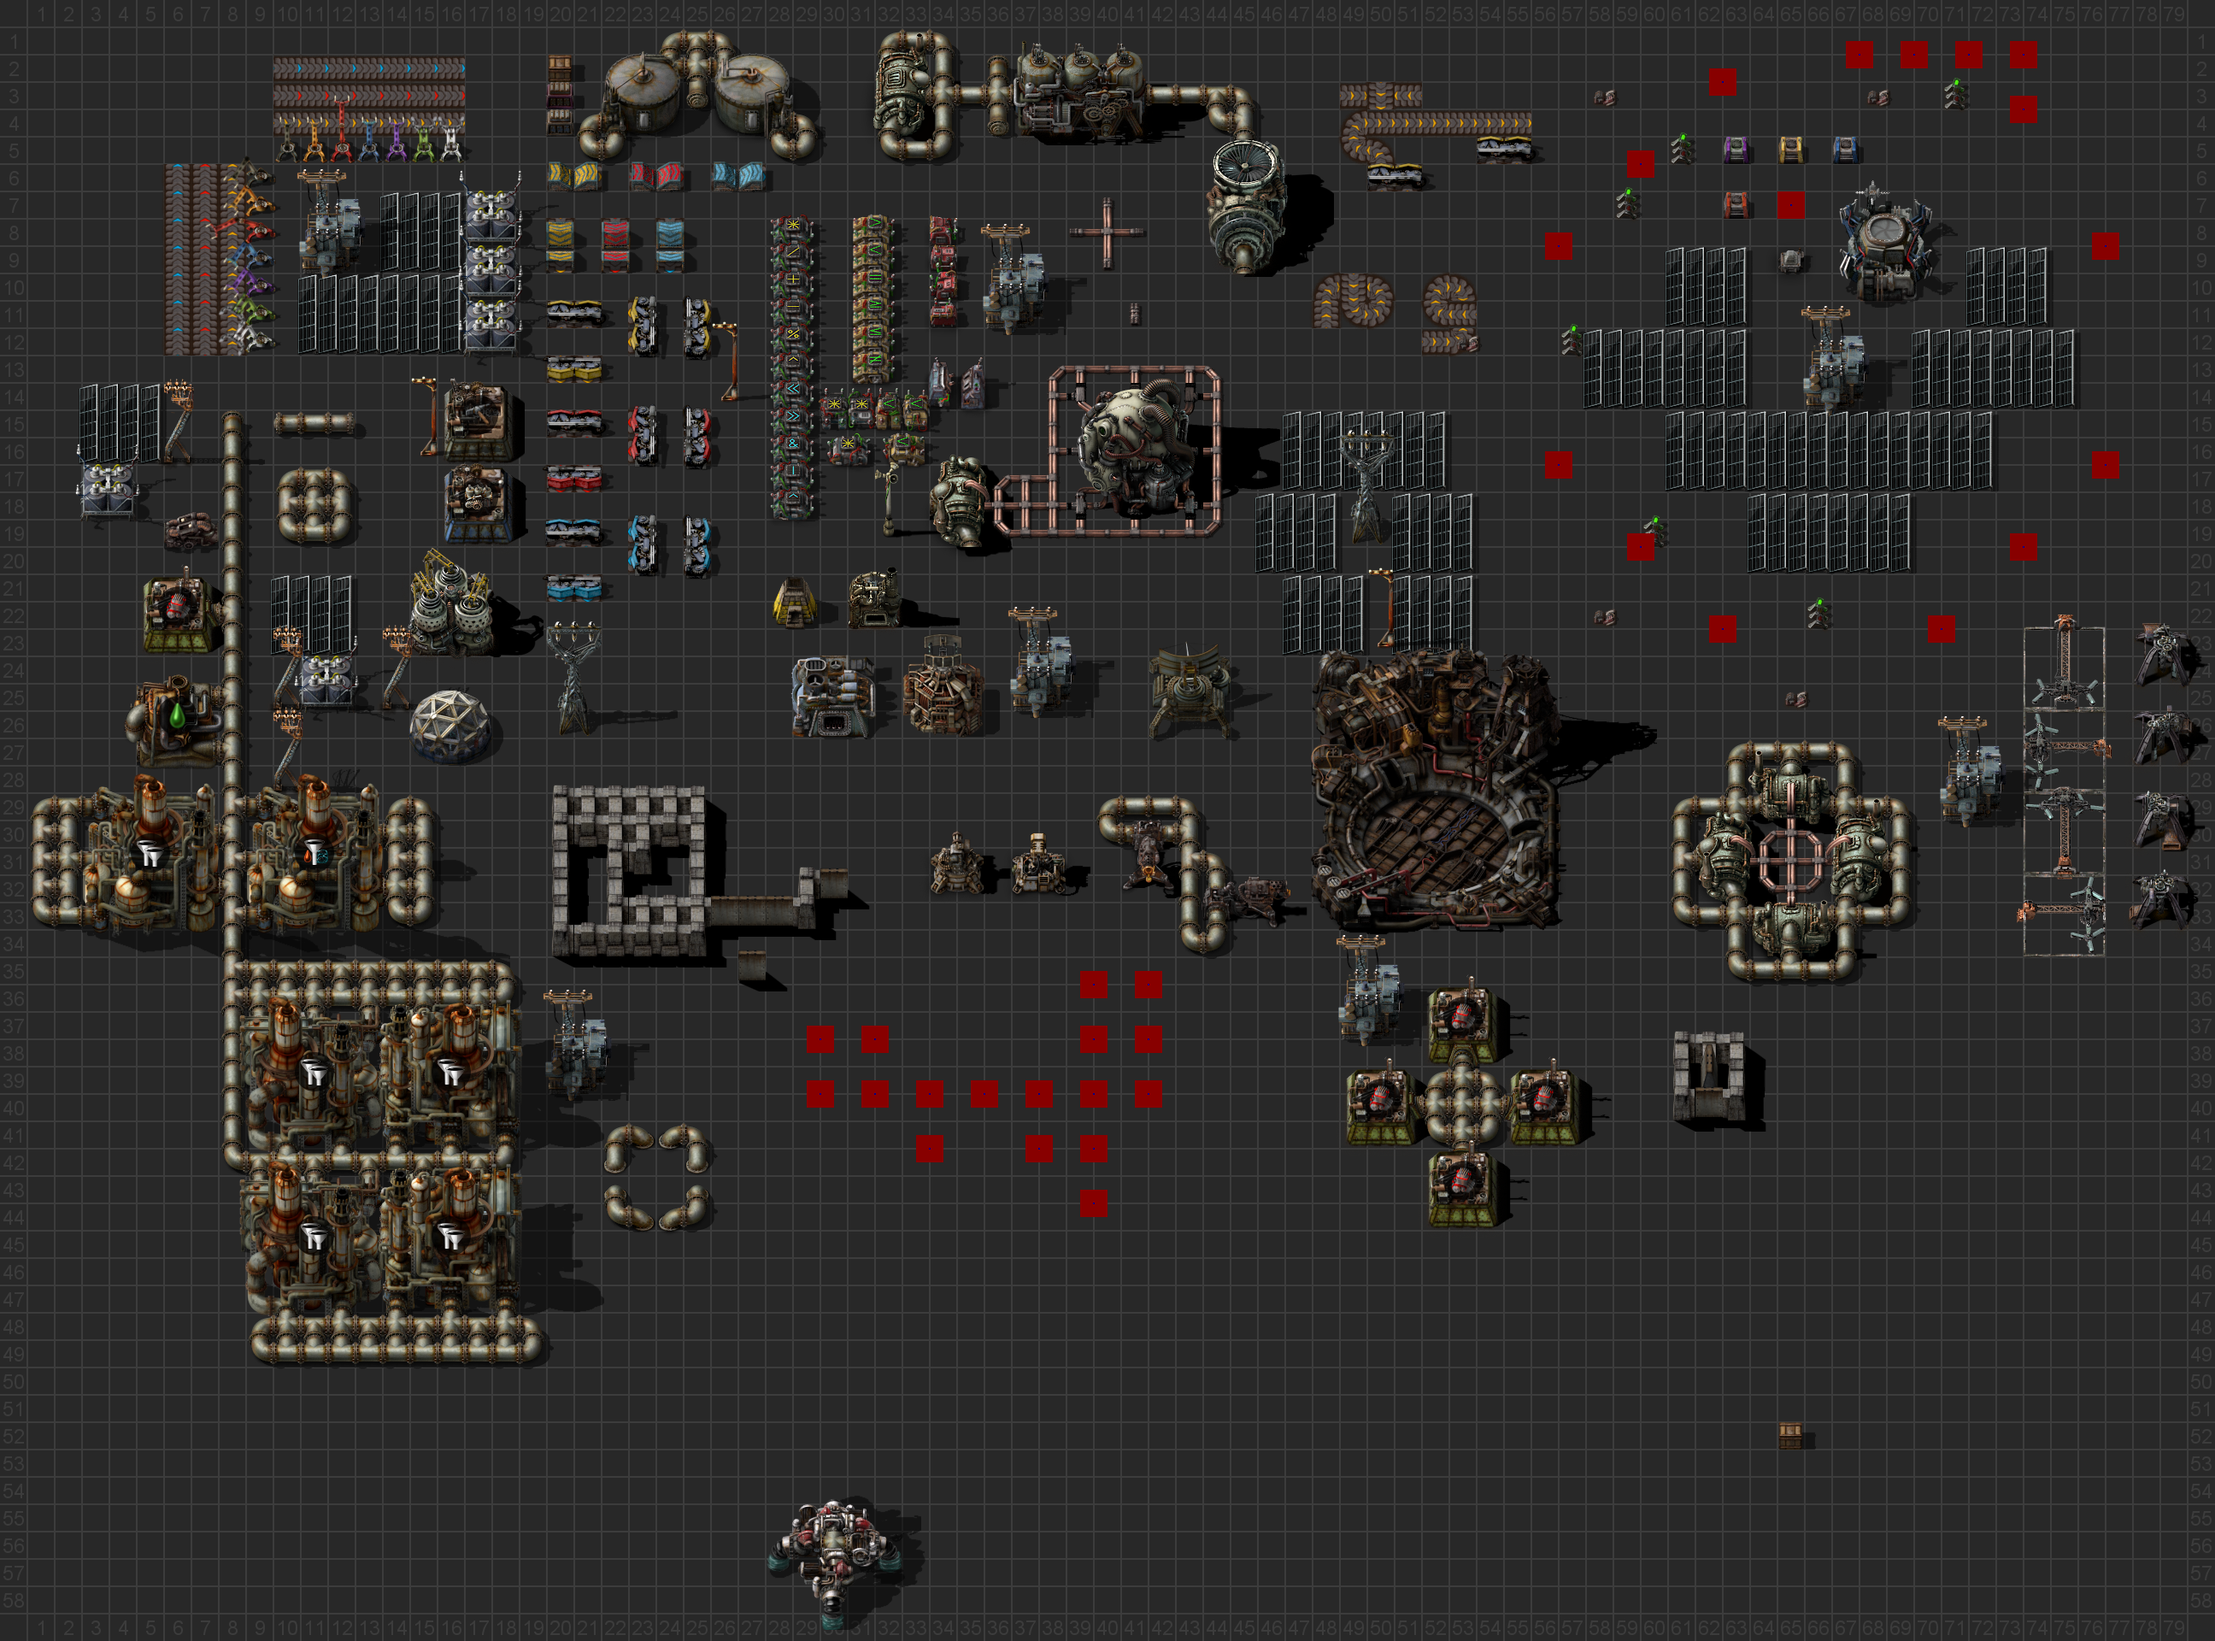
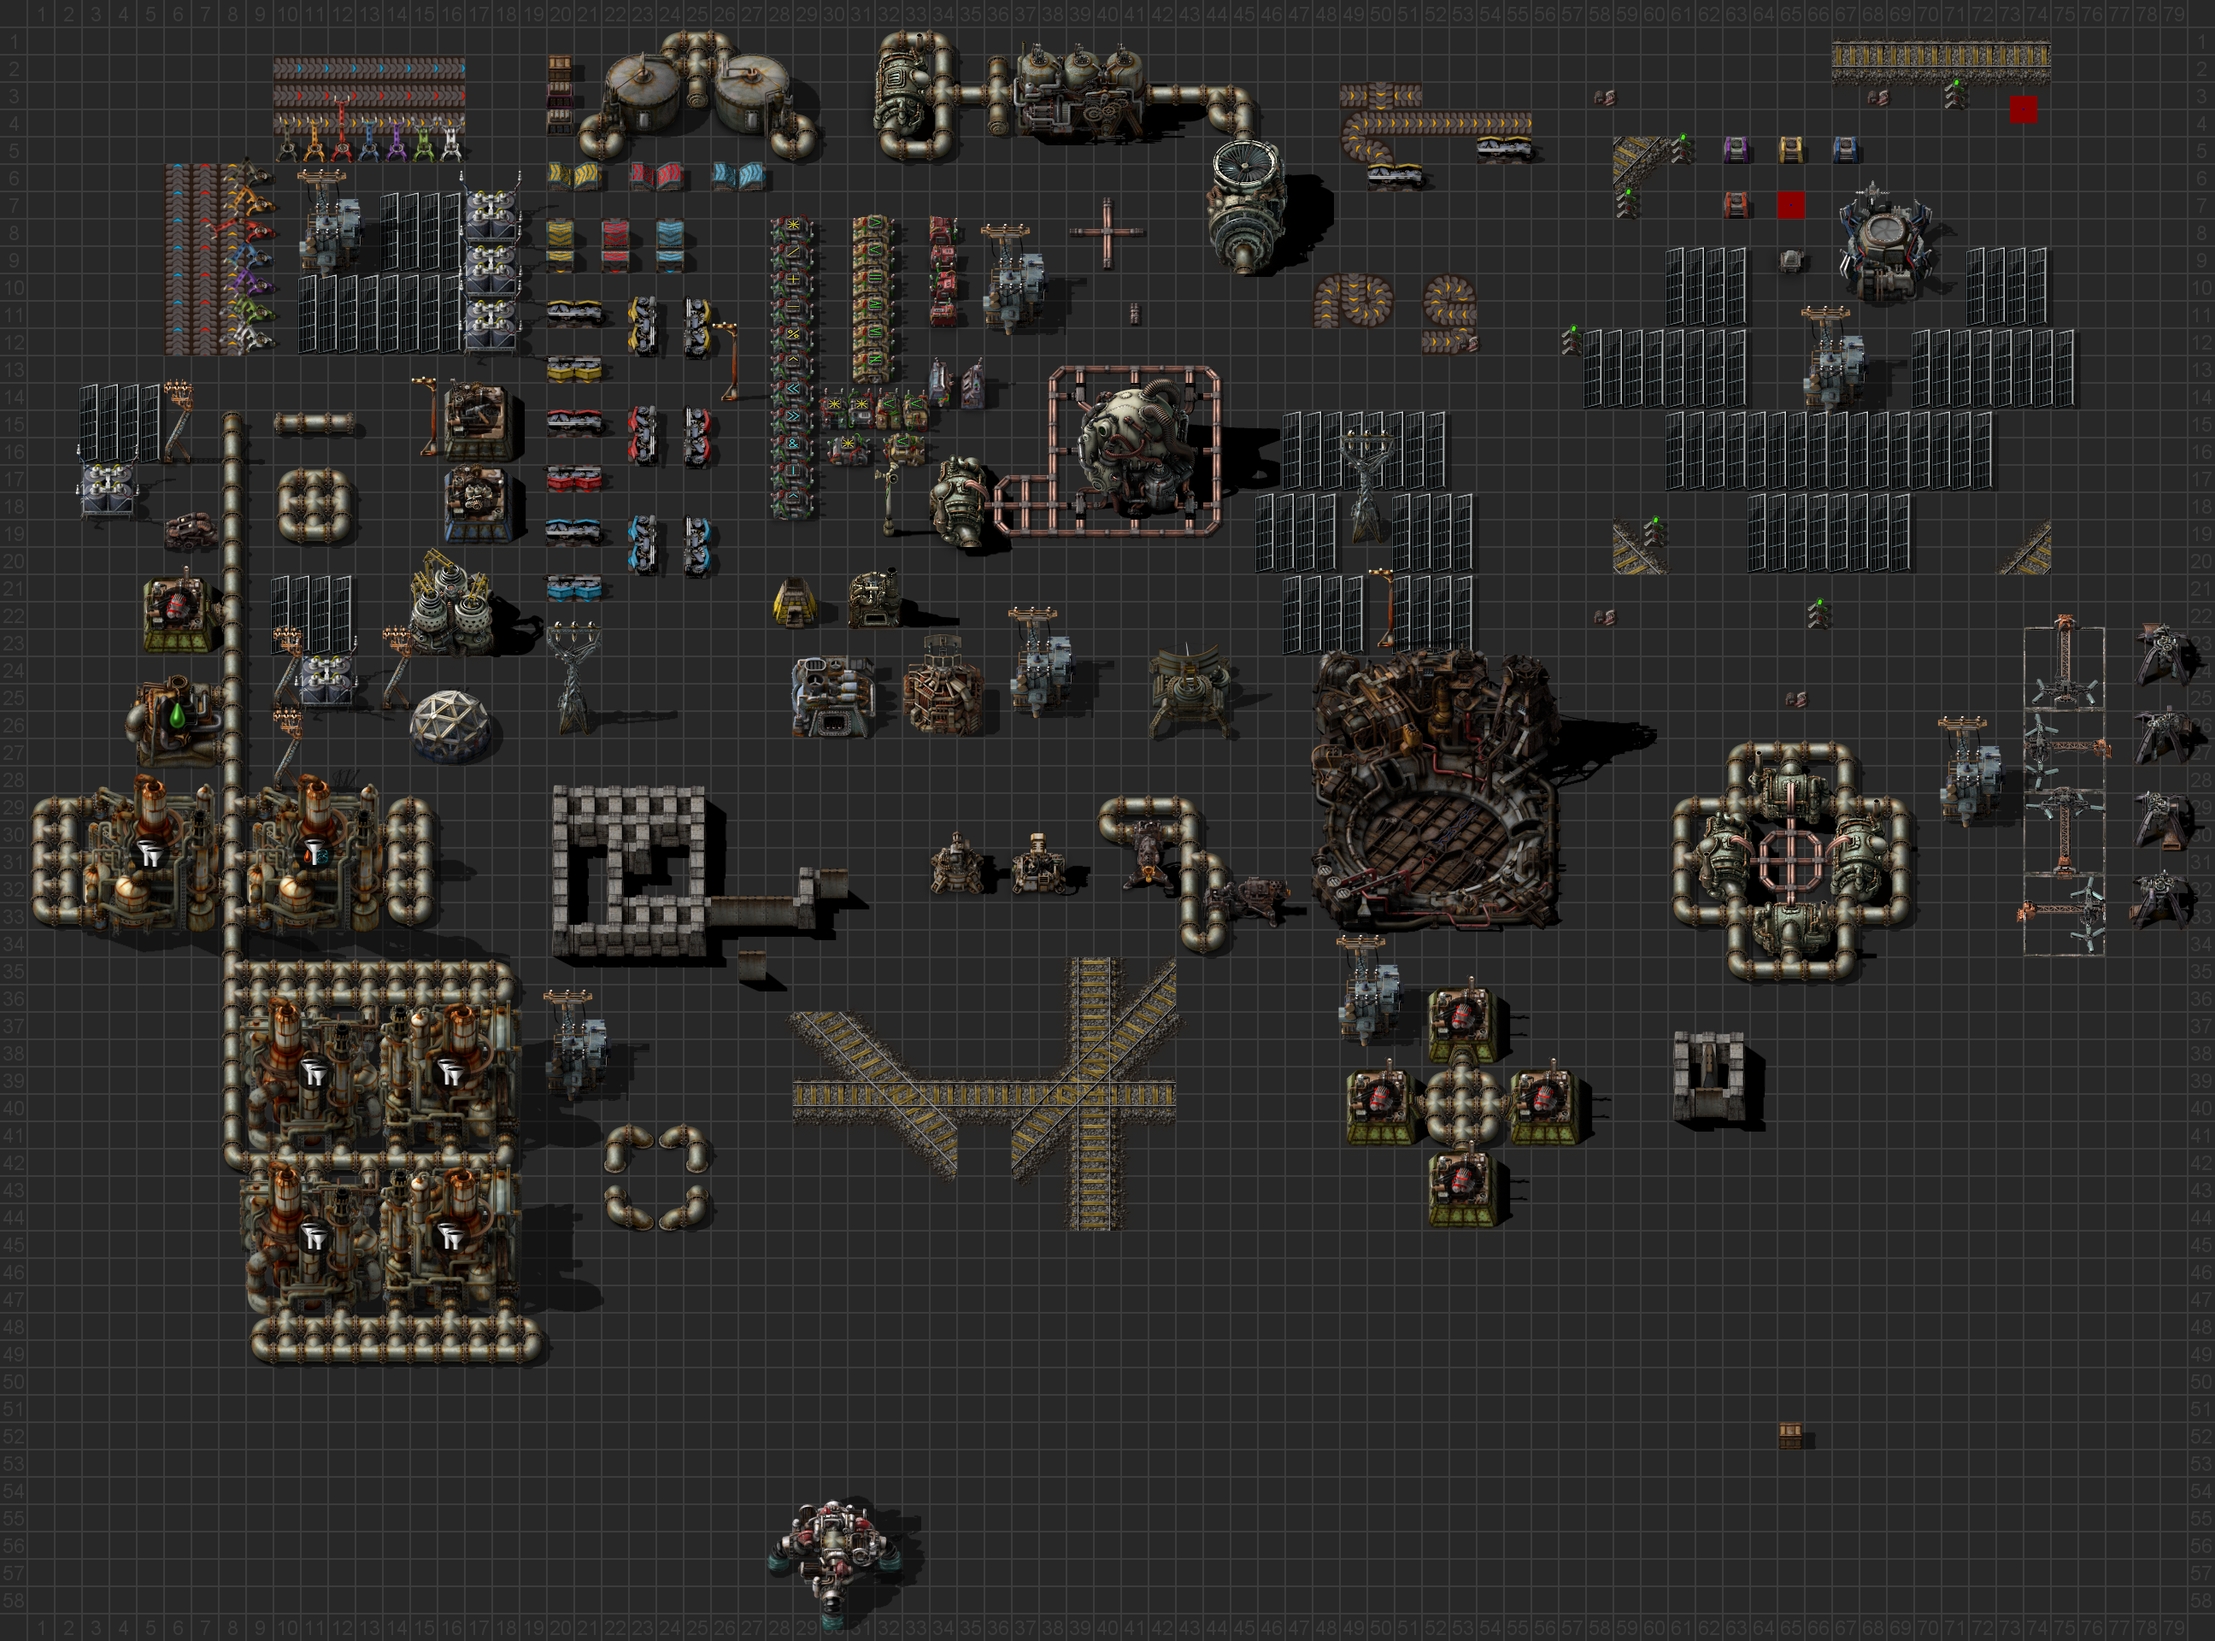
Render straight rails

diff --git a/spritesheet.js b/spritesheet.js
@@ -503,9 +503,47 @@ function pumpjack (entity, data) {
         processPicture(data.animations.north)));
 }
 
+function straightRail (entity, data) {
+    saveCanvas("images/" + entity + "_horizontal_pass_1.png", processPicture(data.pictures.straight_rail_horizontal.stone_path_background.sheet));
+    saveCanvas("images/" + entity + "_horizontal_pass_2.png", processPicture(data.pictures.straight_rail_horizontal.stone_path.sheet));
+    saveCanvas("images/" + entity + "_horizontal_pass_3.png", processPicture(data.pictures.straight_rail_horizontal.ties.sheet));
+    saveCanvas("images/" + entity + "_horizontal_pass_4.png", processPicture(data.pictures.straight_rail_horizontal.backplates.sheet));
+    saveCanvas("images/" + entity + "_horizontal_pass_5.png", processPicture(data.pictures.straight_rail_horizontal.metals.sheet));
+
+    saveCanvas("images/" + entity + "_vertical_pass_1.png", processPicture(data.pictures.straight_rail_vertical.stone_path_background.sheet));
+    saveCanvas("images/" + entity + "_vertical_pass_2.png", processPicture(data.pictures.straight_rail_vertical.stone_path.sheet));
+    saveCanvas("images/" + entity + "_vertical_pass_3.png", processPicture(data.pictures.straight_rail_vertical.ties.sheet));
+    saveCanvas("images/" + entity + "_vertical_pass_4.png", processPicture(data.pictures.straight_rail_vertical.backplates.sheet));
+    saveCanvas("images/" + entity + "_vertical_pass_5.png", processPicture(data.pictures.straight_rail_vertical.metals.sheet));
+
+    saveCanvas("images/" + entity + "_diagonal_left_bottom_pass_1.png", processPicture(data.pictures.straight_rail_diagonal_left_bottom.stone_path_background.sheet));
+    saveCanvas("images/" + entity + "_diagonal_left_bottom_pass_2.png", processPicture(data.pictures.straight_rail_diagonal_left_bottom.stone_path.sheet));
+    saveCanvas("images/" + entity + "_diagonal_left_bottom_pass_3.png", processPicture(data.pictures.straight_rail_diagonal_left_bottom.ties.sheet));
+    saveCanvas("images/" + entity + "_diagonal_left_bottom_pass_4.png", processPicture(data.pictures.straight_rail_diagonal_left_bottom.backplates.sheet));
+    saveCanvas("images/" + entity + "_diagonal_left_bottom_pass_5.png", processPicture(data.pictures.straight_rail_diagonal_left_bottom.metals.sheet));
+
+    saveCanvas("images/" + entity + "_diagonal_right_bottom_pass_1.png", processPicture(data.pictures.straight_rail_diagonal_right_bottom.stone_path_background.sheet));
+    saveCanvas("images/" + entity + "_diagonal_right_bottom_pass_2.png", processPicture(data.pictures.straight_rail_diagonal_right_bottom.stone_path.sheet));
+    saveCanvas("images/" + entity + "_diagonal_right_bottom_pass_3.png", processPicture(data.pictures.straight_rail_diagonal_right_bottom.ties.sheet));
+    saveCanvas("images/" + entity + "_diagonal_right_bottom_pass_4.png", processPicture(data.pictures.straight_rail_diagonal_right_bottom.backplates.sheet));
+    saveCanvas("images/" + entity + "_diagonal_right_bottom_pass_5.png", processPicture(data.pictures.straight_rail_diagonal_right_bottom.metals.sheet));
+
+    saveCanvas("images/" + entity + "_diagonal_left_top_pass_1.png", processPicture(data.pictures.straight_rail_diagonal_left_top.stone_path_background.sheet));
+    saveCanvas("images/" + entity + "_diagonal_left_top_pass_2.png", processPicture(data.pictures.straight_rail_diagonal_left_top.stone_path.sheet));
+    saveCanvas("images/" + entity + "_diagonal_left_top_pass_3.png", processPicture(data.pictures.straight_rail_diagonal_left_top.ties.sheet));
+    saveCanvas("images/" + entity + "_diagonal_left_top_pass_4.png", processPicture(data.pictures.straight_rail_diagonal_left_top.backplates.sheet));
+    saveCanvas("images/" + entity + "_diagonal_left_top_pass_5.png", processPicture(data.pictures.straight_rail_diagonal_left_top.metals.sheet));
+
+    saveCanvas("images/" + entity + "_diagonal_right_top_pass_1.png", processPicture(data.pictures.straight_rail_diagonal_right_top.stone_path_background.sheet));
+    saveCanvas("images/" + entity + "_diagonal_right_top_pass_2.png", processPicture(data.pictures.straight_rail_diagonal_right_top.stone_path.sheet));
+    saveCanvas("images/" + entity + "_diagonal_right_top_pass_3.png", processPicture(data.pictures.straight_rail_diagonal_right_top.ties.sheet));
+    saveCanvas("images/" + entity + "_diagonal_right_top_pass_4.png", processPicture(data.pictures.straight_rail_diagonal_right_top.backplates.sheet));
+    saveCanvas("images/" + entity + "_diagonal_right_top_pass_5.png", processPicture(data.pictures.straight_rail_diagonal_right_top.metals.sheet));
+}
+
 const special = {
     "curved-rail": noop,
-    "straight-rail": noop,
+    "straight-rail": straightRail,
     "beacon": beacon,
     "centrifuge": centrifuge,
     "pumpjack": pumpjack,

diff --git a/factorio.js b/factorio.js
@@ -192,9 +192,52 @@ class Blueprint {
             }
         }
 
-        // Second pass: entities
+        // Second pass: rails
+        for (let pass = 1; pass <= 5; pass++) {
+            for (let i = 0; i < this.entities.length; i++) {
+                const entity = this.entities[i];
+
+                if (entity.name !== "straight-rail" && entity.name !== "curved-rail") {
+                    continue
+                }
+
+                const position = entity['position'];
+                const relativeX = position.x + Math.abs(size.minX) + 0.5;
+                const relativeY = position.y + Math.abs(size.minY) + 0.5;
+
+                const direction = entity.direction || 0;
+                let image;
+
+                if (direction === 0 || direction === 4) {
+                    image = imageResolver(entity.name + "_vertical_pass_" + pass, false);
+                } else if (direction === 2 || direction === 6) {
+                    image = imageResolver(entity.name + "_horizontal_pass_" + pass, false);
+                } else if (direction === 1) {
+                    image = imageResolver(entity.name + "_diagonal_right_top_pass_" + pass, false);
+                } else if (direction === 5) {
+                    image = imageResolver(entity.name + "_diagonal_left_bottom_pass_" + pass, false);
+                } else if (direction === 3) {
+                    image = imageResolver(entity.name + "_diagonal_right_bottom_pass_" + pass, false);
+                } else if (direction === 7) {
+                    image = imageResolver(entity.name + "_diagonal_left_top_pass_" + pass, false);
+                }
+
+                if (image) {
+                    const startX = Math.floor((relativeX * scaling + (scaling / 2)) - (image.width / 2));
+                    const startY = Math.floor((relativeY * scaling + (scaling / 2)) - (image.height / 2));
+                    ctx.drawImage(image, startX, startY, image.width, image.height)
+                }
+            }
+        }
+
+        // Third pass: entities
         for (let i = 0; i < this.entities.length; i++) {
             const entity = this.entities[i];
+
+            if (entity.name === "straight-rail" || entity.name === "curved-rail") {
+                continue
+            }
+
             const position = entity['position'];
             const relativeX = position.x + Math.abs(size.minX) + 0.5;
             const relativeY = position.y + Math.abs(size.minY) + 0.5;
@@ -214,7 +257,7 @@ class Blueprint {
                 const startY = Math.floor((relativeY * scaling + (scaling / 2)) - (image.height / 2));
                 ctx.drawImage(image, startX, startY, image.width, image.height)
             } else {
-                //console.log("Missing", entity.name);
+                console.log("Missing", entity.name);
                 ctx.fillStyle = "#880000";
                 ctx.fillRect(relativeX * scaling, relativeY * scaling, scaling, scaling);
                 ctx.fillStyle = "#000088";
